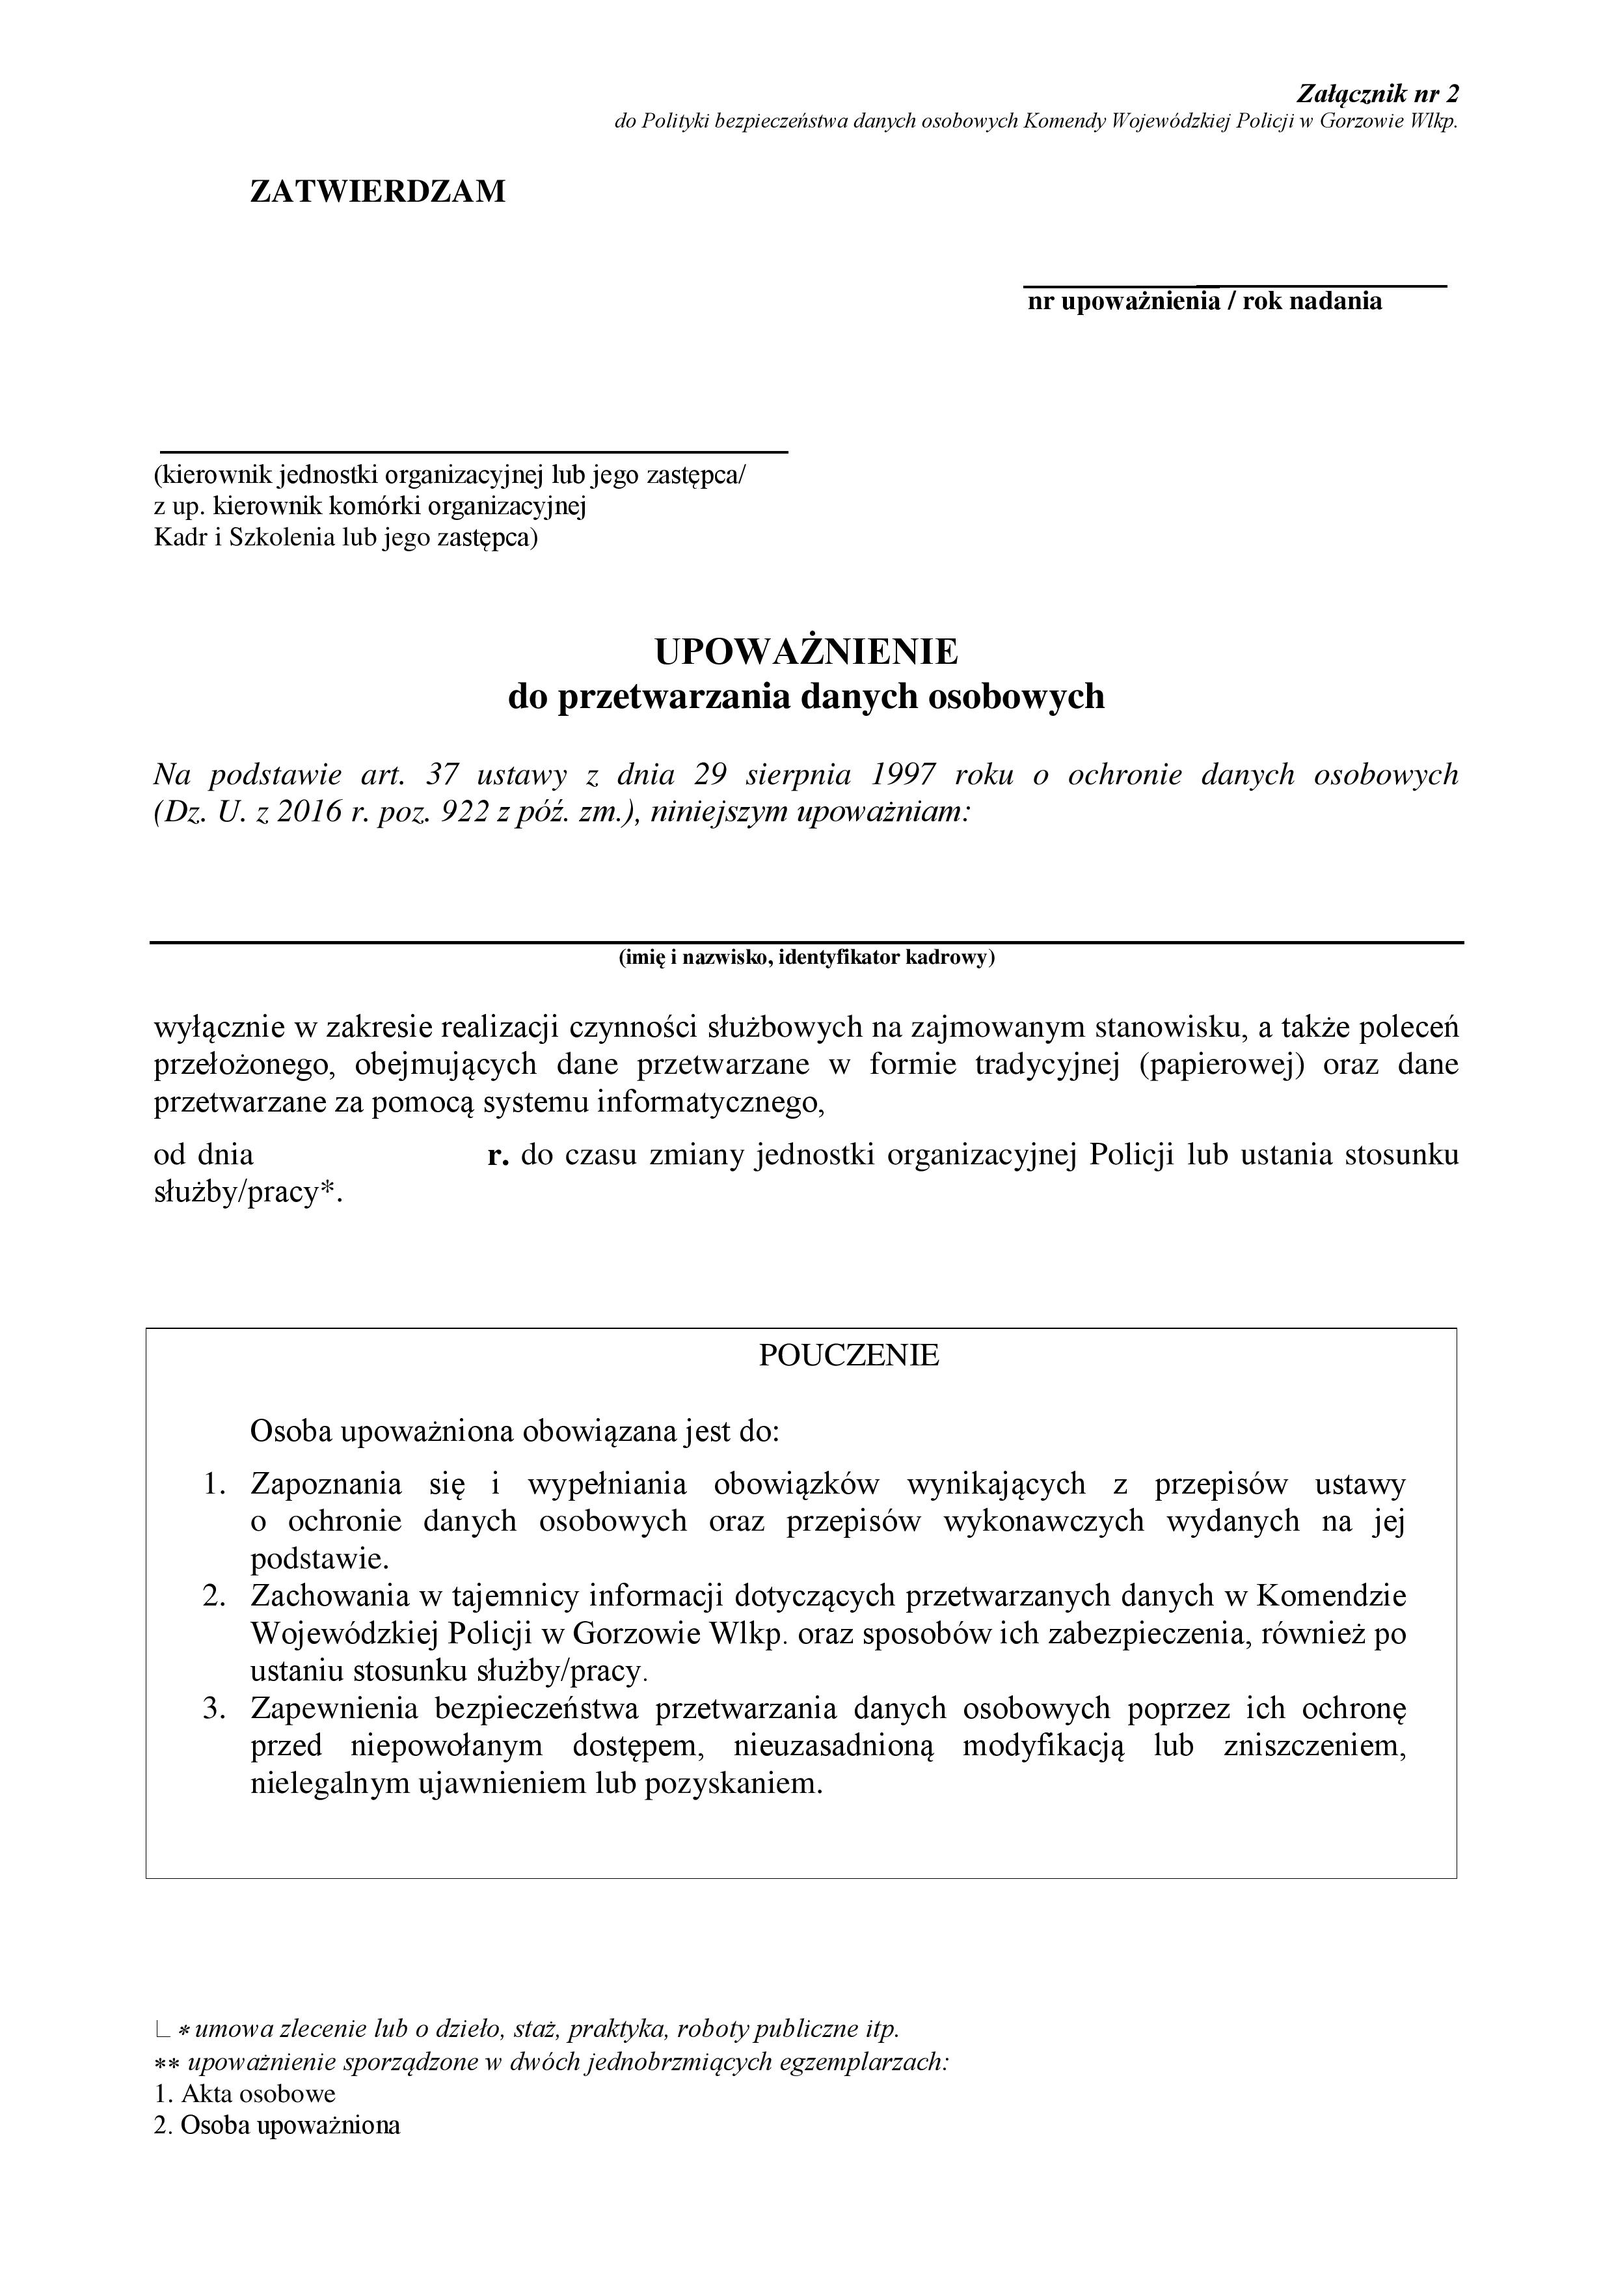
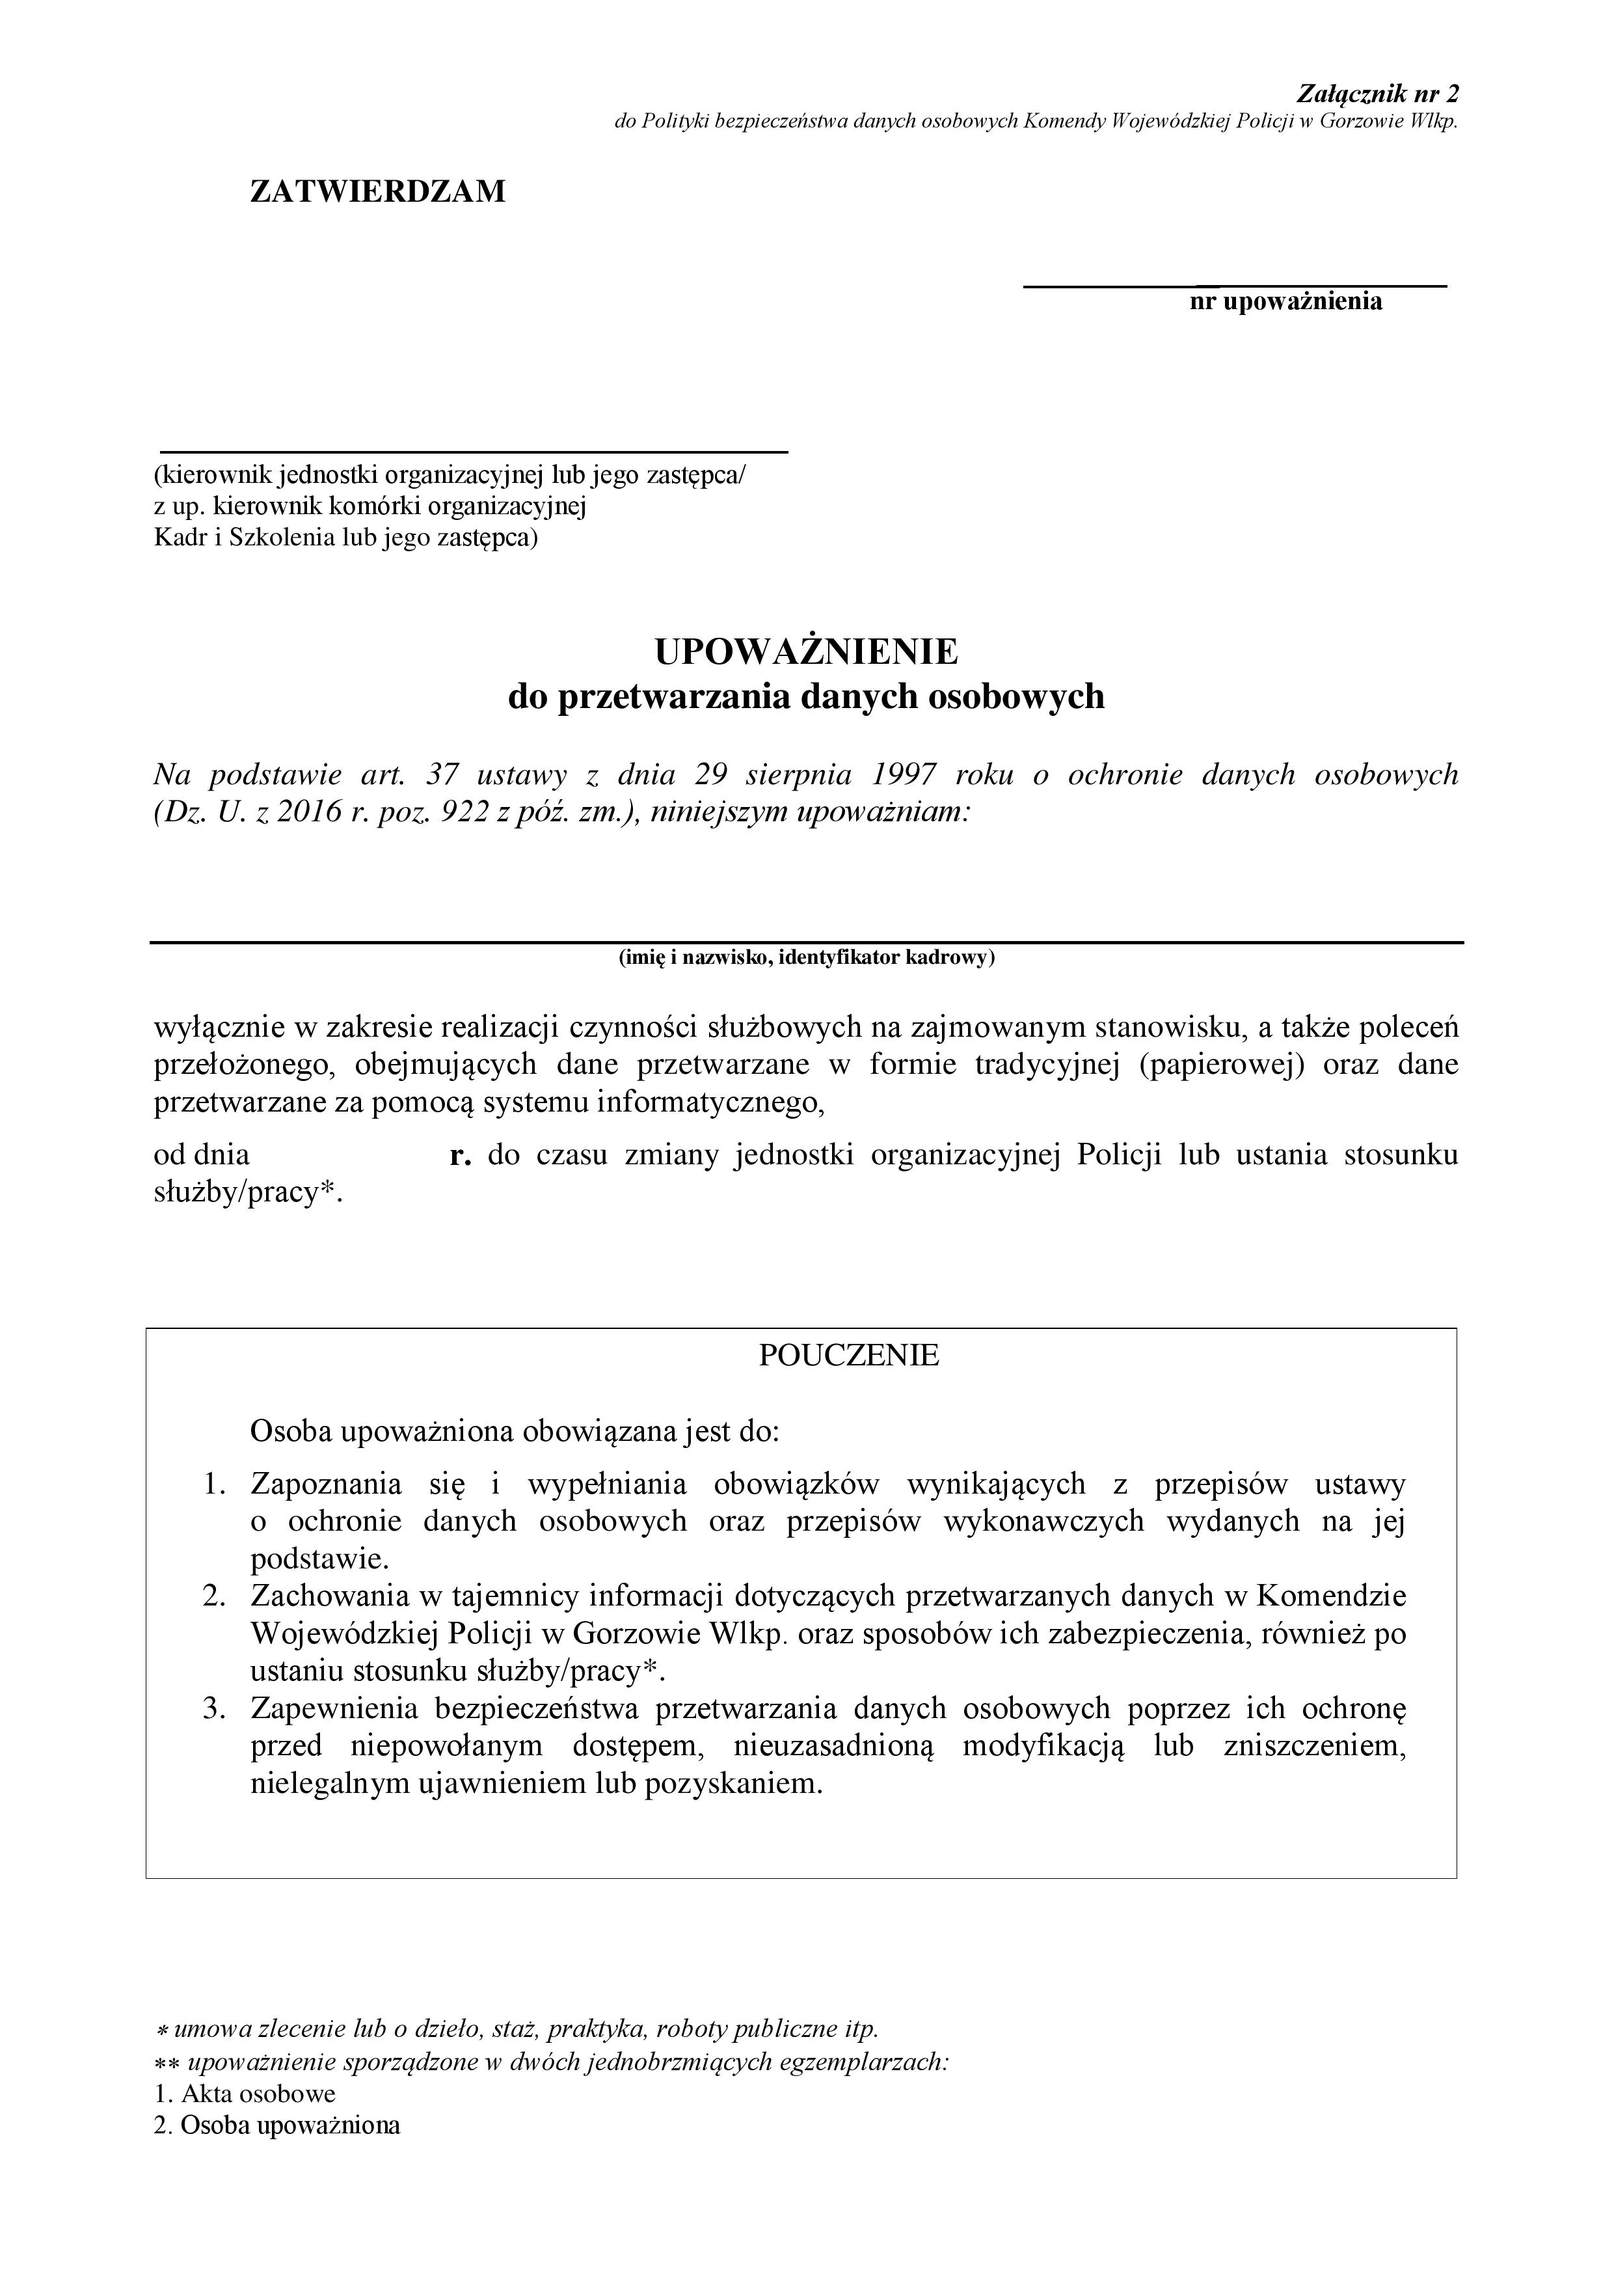
wersja finalna

diff --git a/upowaznienia.php b/upowaznienia.php
@@ -142,14 +142,24 @@ include 'menu.php';
                 }
                 elseif($uzytkownik_grupa=='3')
                 {
+
                     echo"<table class='table table-striped table-bordered'><form method='post' action='upowaznienia.php?a=zapisz_wniosek'>";
                     echo "<tr>";
                     echo "<th>Typ Osoby:</th>";
-                    echo "<td><select name='typ_osoby' class='form-control'>
-                                    <option value='2'>Cywil</option>
-                                    <option value='3'>Praktykant, stażysta</option>
-                                    </select>
-                              </td>";
+
+                    echo "<td><select name='typ_osoby' class='form-control'>";
+                                if($nrID=='1')
+                                {
+                                    echo"<option value='2' selected>Cywil</option>
+                                    <option value='3'>Praktykant, stażysta</option>";
+                                }
+                                elseif ($nrID=='2')
+                                {
+                                    echo "<option value='2'>Cywil</option>
+                                    <option value='3' selected>Praktykant, stażysta</option>";
+                                }
+
+                    echo "</select></td>";
                     echo "</tr>";
                     echo "<tr>";
                     echo "<th>Nr kadrowy</th>";
@@ -212,17 +222,19 @@ include 'menu.php';
                 {
                     if (isset($nrID))
                     {
-                        $pobierz_wpis = mysqli_query($polaczenie,"SELECT nr_kadrowy, imie_nazwisko, data_nadania, data_ustania, typ_wniosku FROM ewidencja_upowaznienia WHERE id  = '$nrID'")
+                        $pobierz_wpis = mysqli_query($polaczenie,"SELECT nr_kadrowy, imie_nazwisko, data_nadania, data_ustania, typ_wniosku, data_szkolenia, nr_upowaznienia, kto_edytowal, data_edycji FROM ewidencja_upowaznienia WHERE id  = '$nrID'")
                             or die("Bład przy pobierz_wpis".mysqli_error($polaczenie));
                         if(mysqli_num_rows($pobierz_wpis)>0)
                         {
                             while ($wpis=mysqli_fetch_array($pobierz_wpis))
                             {
+                                $nazwa_grupy_wnioske = PobierzNazweGrupy($wpis['typ_wniosku']);
                                 echo"<table class='table table-striped table-bordered'><form method='post' action='upowaznienia.php?a=aktualizuj_wniosek'>";
+                                echo "<tr><th>Nr upowaznienia: </th><td><input type='text' value='$wpis[nr_upowaznienia]'  class='form-control' disabled></td></tr>";
                                 echo "<tr>";
                                 echo "<th>Typ Osoby:</th>";
                                 echo "<td><select name='typ_osoby' class='form-control'>";
-                                echo "<option value='$wpis[typ_wniosku]'></option>";
+                                echo "<option value='$wpis[typ_wniosku]'>$nazwa_grupy_wnioske</option>";
                                 echo"<option value='1'>Policjant</option>
                                     <option value='2'>Cywil</option>
                                     <option value='3'>Praktykant, stażysta</option>
@@ -245,11 +257,37 @@ include 'menu.php';
                                 echo "<th>Data ustania</th>";
                                 echo "<td><input type='text' class='form-control' name='data_ustania' id='datepicker2' value='$wpis[data_ustania]'></td>";
                                 echo "</tr>";
+                                echo "<tr><th>Data szkolenia:</th><td><input type='text' name='data_szkolenia' class='form-control' id='datepicker3' value='$wpis[data_szkolenia]'></td></tr>";
                                 echo "<tr><th colspan='2'><input type='hidden' name='nr_id' value='$nrID'><input type='submit' value='Aktualizuj upoważnienie' class='btn btn-warning form-control' name='przycisk_aktualizuj_wnioske'></th></tr>";
                                 echo"</form></table>";
+                                if($wpis['kto_edytowal']!='0')
+                                {
+                                    $kto_edytowal = PobierzImieNazwisko($wpis['kto_edytowal']);
+                                    echo "<p>Edytował ostatnio: $kto_edytowal Data: {$wpis['data_edycji']}</p>";
+                                }
                             }
                         }
 
+                    }
+                }
+                elseif ($a=='aktualizuj_wniosek')
+                {
+                    if(isset($_POST['przycisk_aktualizuj_wnioske']))
+                    {
+                        $upo_typ = $_POST['typ_osoby'];
+                        $upo_nr_kadrowy = trim($_POST['nr_kadrowy']);
+                        $upo_imie_nazwisko = trim($_POST['imie_nazwisko']);
+                        $upo_data_nadania = $_POST['data_nadania'];
+                        $upo_data_ustania = $_POST['data_ustania'];
+                        $upo_data_szkolenia = $_POST['data_szkolenia'];
+                        $upo_nr_id_rek = $_POST['nr_id'];
+                        $upo_data_edycji = date("Y-m-d H:i:s");
+
+                        $aktualizujUpowaznienie = mysqli_query($polaczenie,"UPDATE ewidencja_upowaznienia SET typ_wniosku = '$upo_typ', 
+                        nr_kadrowy ='$upo_nr_kadrowy', imie_nazwisko = '$upo_imie_nazwisko', data_nadania = '$upo_data_nadania', data_ustania = '$upo_data_ustania', 
+                        data_szkolenia = '$upo_data_szkolenia', kto_edytowal = '$uzytkownik_id', data_edycji = '$upo_data_edycji' WHERE id = '$upo_nr_id_rek'")
+                            or die("Blad przy aktualizujUpowaznienie: ".mysqli_error($polaczenie));
+                        echo "<p>Zaktualizowano pomyslnie upoważnienie <a href='upowaznienia.php'>Powrót</a></p>";
                     }
                 }
                 else
@@ -259,7 +297,7 @@ include 'menu.php';
                     if($uzytkownik_grupa=='1')
                     {
 
-                        $wyswietl_ewidencje=mysqli_query($polaczenie,"SELECT nr_kadrowy, imie_nazwisko, nr_upowaznienia, data_nadania, data_ustania,id FROM ewidencja_upowaznienia ORDER BY data_nadania DESC");
+                        $wyswietl_ewidencje=mysqli_query($polaczenie,"SELECT nr_kadrowy, imie_nazwisko, nr_upowaznienia, data_nadania, data_ustania,id, data_szkolenia FROM ewidencja_upowaznienia ORDER BY data_nadania DESC");
                     }
                     elseif ($uzytkownik_grupa=='2')
                     {
@@ -277,12 +315,22 @@ include 'menu.php';
                     }
                     $data_dzis=date("Y-m-d");
                     echo "<table class='table table-striped table-bordered' id='example1'>";
-                    echo "<thead><tr><th>Nr Kadrowy</th><th>Imię i Nazwisko</th><th>Nr upowaznienia</th><th>Data nadania</th><th>Data ustania</th><th>AKCJA</th></tr></thead>";
+                    echo "<thead><tr><th>Nr Kadrowy</th><th>Imię i Nazwisko</th><th>Nr upowaznienia</th><th>Data nadania</th><th>Data ustania</th>";
+                    if($uzytkownik_grupa=='1')
+                    {
+                        echo "<th>Data Szkolenia</th>";
+                    }
+                    echo "<th>AKCJA</th></tr></thead>";
                     if(mysqli_num_rows($wyswietl_ewidencje)>0)
                     {
                         while ($ewidencja=mysqli_fetch_array($wyswietl_ewidencje))
                         {
-                            echo "<tr><td>$ewidencja[nr_kadrowy]</td><td>$ewidencja[imie_nazwisko]</td><td>$ewidencja[nr_upowaznienia]</td><td>$ewidencja[data_nadania]</td><td>$ewidencja[data_ustania]</td><td>
+                            echo "<tr><td>$ewidencja[nr_kadrowy]</td><td>$ewidencja[imie_nazwisko]</td><td>$ewidencja[nr_upowaznienia]</td><td>$ewidencja[data_nadania]</td><td>$ewidencja[data_ustania]</td>";
+                            if($uzytkownik_grupa=='1')
+                            {
+                                echo "<td>$ewidencja[data_szkolenia]</td>";
+                            }
+                            echo "<td>
                             <a href='genreuj_wniosek.php?id=$ewidencja[id]' class='btn-sm btn-primary'>PDF</a>
                             <a href='upowaznienia.php?a=edycja&id=$ewidencja[id]' class='btn-sm btn-info'>EDYCJA</a>";
                             if($uzytkownik_grupa=='1')

diff --git a/eksport.php b/eksport.php
@@ -24,7 +24,7 @@ echo "<tr></tr>";
 echo "<thead><tr><th colspan='6'>EWIDENCJA</th></tr>";
 echo "<tr><th colspan='6'>osób upoważnionych do przetwarzania danych osobowych</th></tr>";
 echo "<tr><th colspan='6'>w Komendzie Wojewódzkiej Policji w Gorzowie Wlkp.</th></tr>";
-echo "<tr><th>Nr ID kadrowy*</th><th>Nazwisko i imię</th><th>Nr** upoważnienia</th><th>zakres *** upoważnienia</th><th>Data nadania</th><th>Data ustania</th></tr></thead>";
+echo "<tr><th>Nr ID kadrowy*</th><th>Nazwisko i imię</th><th>Nr upoważnienia</th><th>zakres ** upoważnienia</th><th>Data nadania</th><th>Data ustania</th></tr></thead>";
 if($uzytkownik_grupa =='1')
 {
     $pobierzDaneDoZestawienia=mysqli_query($polaczenie," SELECT nr_kadrowy,imie_nazwisko,nr_upowaznienia,data_nadania,data_ustania FROM ewidencja_upowaznienia");
@@ -47,8 +47,7 @@ if(mysqli_num_rows($pobierzDaneDoZestawienia)>0)
 }
 echo"<tr></tr>";
 echo "<tr><td colspan='6'>* w przypadku braku ID kadrowego wpisujemy np. staż, praktyka</td></tr>";
-echo "<tr><td colspan='6'>** kolejny numer / rok nadania np 123/16</td></tr>";
-echo "<tr><td colspan='6'>*** zgodny z kartą opisu stanowska pracy i zakresem obowiązków</td></tr>";
+echo "<tr><td colspan='6'>** zgodny z kartą opisu stanowska pracy i zakresem obowiązków</td></tr>";
 echo"</table>";
 
 

diff --git a/menu.php b/menu.php
@@ -29,9 +29,9 @@
             {
 
             echo'<li class="header">UPOWAŻNIENIA</li>
-            <li><a href="upowaznienia.php?a=rejestracja"><i class="fa fa-circle-o"></i>Nowy wniosek Policjanci</a></li>
-            <li><a href="upowaznienia.php?a=rejestracja"><i class="fa fa-circle-o"></i>Nowy wniosek Cywile</a></li>
-            <li><a href="upowaznienia.php?a=rejestracja"><i class="fa fa-circle-o"></i>Nowy wniosek Praktykanci staż.</a></li>
+            <li><a href="upowaznienia.php?a=rejestracja"><i class="fa fa-circle-o"></i>Funkcjonariusze</a></li>
+            <li><a href="upowaznienia.php?a=rejestracja&id=1"><i class="fa fa-circle-o"></i>Cywile</a></li>
+            <li><a href="upowaznienia.php?a=rejestracja&id=2"><i class="fa fa-circle-o"></i>Praktykanci, staż, prac.int</a></li>
             <li><a href="upowaznienia.php"><i class="fa fa-circle-o"></i> Przegląd</a></li>';
 
                 echo '<li class="header">ADMINISTRACJA</li>

diff --git a/genreuj_wniosek.php b/genreuj_wniosek.php
@@ -34,13 +34,13 @@ if(isset($nrID))
 
     $pdf->Ln(24);
     $pdf->Cell(123);
-    $pdf->Cell(80,0,$protokol_nr_upowaznienia,0,0,'L');
+    $pdf->Cell(55,0,$protokol_nr_upowaznienia,0,0,'C');
     $pdf->Ln(85);
     $pdf->Cell(10);
-    $pdf->Cell(120,0,$protokol_imie_nazwisko.", (". $protokol_nr_kadrowy.")",0,0,'L');
+    $pdf->Cell(170,0,$protokol_imie_nazwisko." (". $protokol_nr_kadrowy.")",0,0,'C');
     $pdf->SetFont('arial_ce','B',12);
     $pdf->Ln(31.5);
-    $pdf->Cell(27);
+    $pdf->Cell(24);
     $pdf->Cell(40,0,$protokol_data_nadania,0,0,'L');
     $pdf->Close();
     $pdf->Output();

diff --git a/dol.php b/dol.php
@@ -87,6 +87,11 @@
             autoclose: true,
             format: 'yyyy-mm-dd'
         });
+        $('#datepicker3').datepicker({
+            autoclose: true,
+            format: 'yyyy-mm-dd',
+            todayBtn: true
+        });
         //Timepicker
         $(".timepicker").timepicker({
             showInputs: false
